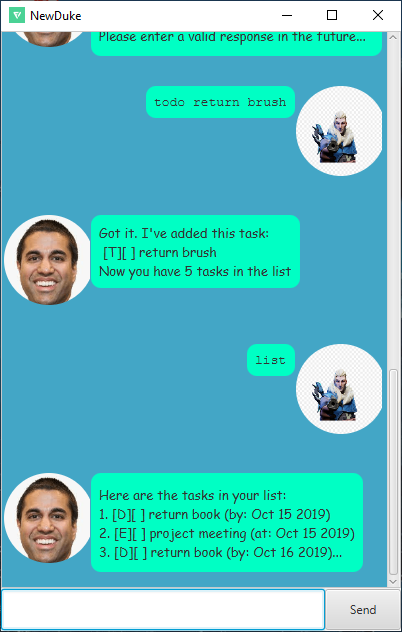
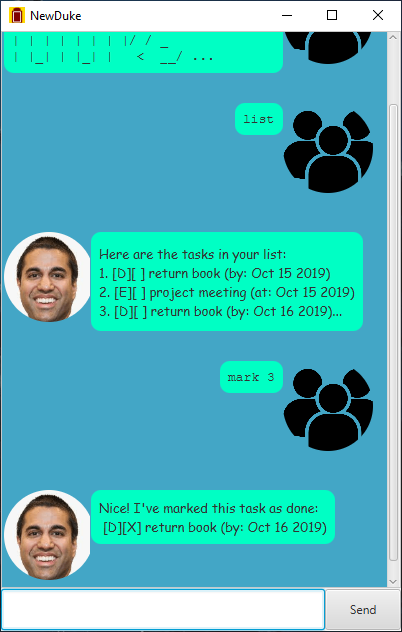
Update ReadME
Updated resources to include free images, added credits and updated Ui

diff --git a/docs/README.md b/docs/README.md
@@ -57,6 +57,7 @@ Find | `find <keyWord(s)>` | find homework | Searches the descriptions of all th
 ## Advanced User Saving Guide 
 Preview the save file as shown here 
 ![SaveFile](./SaveScreenShot.png)
+
  For our more advanced users, you are able to `edit` the save file using the format specified by our save file. Each argument is deliminated by double backslashes `//`. 
 > Here's how to edit the save file yourself. The format for each task is specified by: `taskIndicator//0 or 1//description//date//`.
 
@@ -80,7 +81,8 @@ Credit where it's due to the people who helped along the way!
  - User Icon: @Author: Unknown
     - Retrieved from: "https://www.kindpng.com/imgv/iwoRiix_transparent-clipart-free-download-ajit-pai-hd-png/"
 
- - User profile: @Author: 
+ - User profile: @Author: FreePlk
+   - Retrieved from: "https://www.flaticon.com/free-icon/multiple-users-silhouette_33308"
 
  - App Icon: @Author: UrieW.
     -  Retrieved from OpenGameArt.org @ "https://opengameart.org/content/device-app-icons-with-template"
